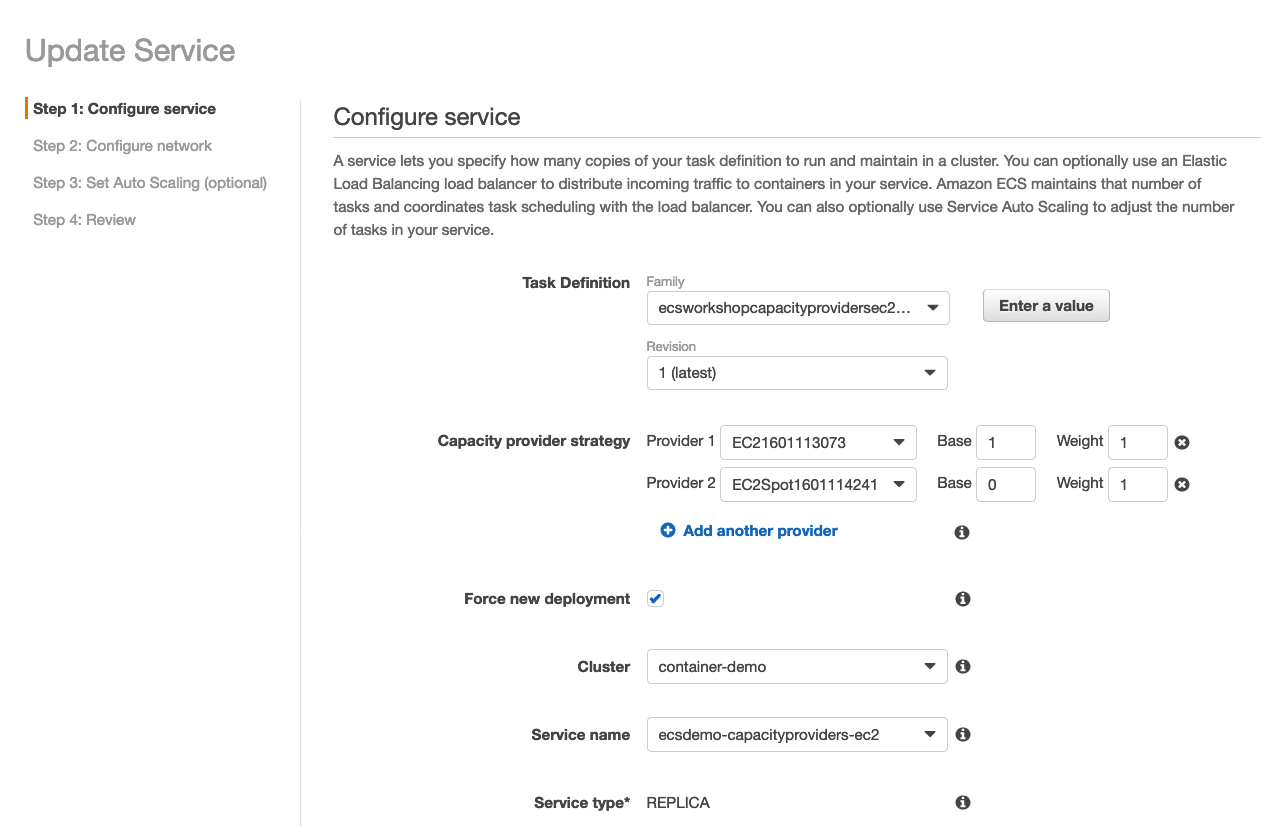
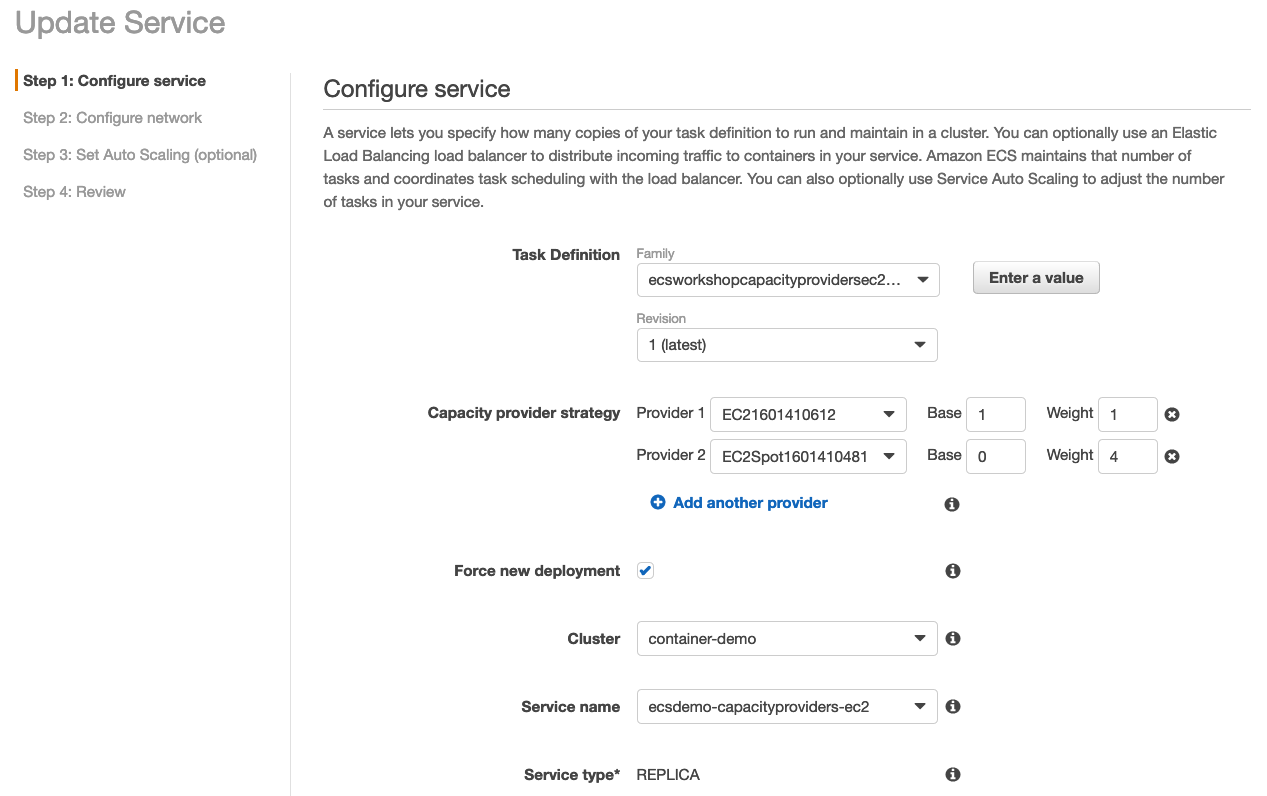
finalize ec2 spot cp module

diff --git a/content/capacity_providers/tabs/ec2_spot.md b/content/capacity_providers/tabs/ec2_spot.md
@@ -6,11 +6,13 @@ hidden: true
 
 ### EC2 Spot Instances 
 
-[Amazon EC2 Spot Instances](https://aws.amazon.com/ec2/spot/) are spare EC2 capacity offered with an up to 90% discount compared to On-Demand pricing. Spot Instances enable you to optimize your costs on the AWS cloud and scale your application’s throughput up to 10X for the same budget. Spot Instances can be interrupted with a two minutes warning when EC2 needs the capacity back. 
+[Amazon EC2 Spot Instances](https://aws.amazon.com/ec2/spot/) are spare EC2 capacity offered with an up to 90% discount compared to On-Demand pricing. Spot Instances enable you to optimize your compute costs on the AWS cloud and scale your application’s throughput up to 10X for the same budget. The only difference between Spot and On-demand instances is that Spot Instances can be interrupted with a two minutes warning when EC2 needs the capacity back. 
 
 Containerized workloads are often stateless and fault tolerant, which makes them a very good fit to run on Spot Instances. The Amazon ECS agent can be configured to automatically catch the Spot Instance interruption notices, so if an instance is going to be interrupted, it is set to `DRAINING`. When a container instance is set to `DRAINING`, Amazon ECS prevents new tasks from being scheduled for placement on the container instance. Service tasks on the container instance that are in the `RUNNING` state are stopped and replaced according to the service's deployment configuration parameters, `minimumHealthyPercent` and `maximumPercent`. For more information, check out the [Container instance draining](https://docs.aws.amazon.com/AmazonECS/latest/developerguide/container-instance-draining.html) and the [using Spot Instances](https://docs.aws.amazon.com/AmazonECS/latest/developerguide/container-instance-spot.html) documentation.
 
-A key best practice to successfully use Spot instances is to be **instance type flexible** so you can acquire capacity from multiple Spot capacity pools for scaling and replacing interrupted Spot instances. A Spot capacity pool is a set of unused EC2 instances with the same instance type (e.g. m5.large), operating system and availability zone. This best practice is very simple to achieve with EC2 Auto Scaling groups, which allow you to [combine multiple instance types and purchase options](https://docs.aws.amazon.com/autoscaling/ec2/userguide/asg-purchase-options.html). By using the `capacity-optimized` *SpotAllocationStrategy* Auto Scaling launches instances from the pools with optimal capacity, reducing the likelihood of interruptions. To learn more about `capacity-optimized` check out [this blog post](https://aws.amazon.com/blogs/aws/capacity-optimized-spot-instance-allocation-in-action-at-mobileye-and-skyscanner/).
+As Spot instances are spare EC2 capacity, Spot instance availability fluctuates with supply and demand trends for EC2 capacity. A key best practice to be able to provision and maintain your target capacity when using Spot instances is to be **instance type flexible**, so you can provision capacity from multiple Spot capacity pools for scaling out and replacing interrupted Spot instances with others from other pools with available spare capacity. A Spot capacity pool is a set of unused EC2 instances with the same instance type (e.g. m5.large), operating system and Availability Zone. 
+
+Instance type flexibility best practice is very simple to achieve with EC2 Auto Scaling groups, which allow you to [combine multiple instance types and purchase options](https://docs.aws.amazon.com/autoscaling/ec2/userguide/asg-purchase-options.html) on a single Auto Scaling group. By using the `capacity-optimized` *SpotAllocationStrategy*, EC2 Auto Scaling launches instances from the pools with optimal capacity for the number of instances that are launching, making use of real-time capacity data. By choosing instances from the optimal capacity pools, the likelihood of interruptions is reduced. To learn more about `capacity-optimized` and how customers are successful using it, check out [this blog post](https://aws.amazon.com/blogs/aws/capacity-optimized-spot-instance-allocation-in-action-at-mobileye-and-skyscanner/).
 
 ### Enable EC2 Spot capacity on the cluster
 
@@ -117,16 +119,17 @@ Now, update the cluster using the cdk.
 cdk deploy --require-approval never
 ```
 
-By adding that section of code, all of the necessary components to add EC2 Spot instances to the cluster will be created. This includes an Auto Scaling Group with mixed instance types, Launch Template, ECS Optimized AMI, etc. Let's break down the important pieces:
+By adding that section of code, all of the necessary components to add EC2 Spot instances to the cluster will be created. This includes an Auto Scaling Group with mixed instance types, Launch Template, ECS Optimized AMI, etc. As the AutoScaling CDK construct doesn't yet support Launch Templates, and hence, mixed instance types, we're defining the infrastructure by using CloudFormation constructs. The work to include Launch Templates support is being tracked [here](https://github.com/aws/aws-cdk/issues/6734). Let's break down the important pieces:
 
 - Notice we are creating a [Launch Template](https://docs.aws.amazon.com/AWSEC2/latest/UserGuide/ec2-launch-templates.html). This is required to combine instance types and purchase options on an Auto Scaling group.
 - On the User Data of the launch template, we're configuring the ECS agent to drain a Spot Container Instance when receiving an interruption notice: `ECS_ENABLE_SPOT_INSTANCE_DRAINING=true`.
 - On the Auto Scaling group, we're defining a Mixed Instances Policy. On instance distribution, we're setting up the Auto Scaling group to launch only EC2 Spot Instances and use the `capacity-optimized` Spot Allocation Strategy. This makes Auto Scaling launch instances from the Spot capacity pool with optimal capacity for the number or instances that are launching. Deploying this way helps you make the most efficient use of spare EC2 capacity and reduce the likelihood of interruptions.
-- On the `overrides` section, we're configuring 10 different instance types that we can use on our ECS cluster. Multipliying this number by the number of Availability Zones in use will give us the number of Spot capacity pools we can launch capacity from ( e.g. if we're across 3 AZs, it means we can get capacity from 30 different Spot capacity pools). This maximizes our ability acquire the required Spot capacity (the more pools the better). 
+- On the `overrides` section, we're configuring 10 different instance types that we can use on our ECS cluster. Multipliying this number by the number of Availability Zones in use will give us the number of Spot capacity pools we can launch capacity from ( e.g. if we're across 3 AZs, it means we can get capacity from 30 different Spot capacity pools). This maximizes our ability provision and maintain the required Spot capacity (the more pools the better). 
+- Note this time we're using larger instance types than with On-Demand (\*.large vs. t3.small). The reason the instances are larger is to be able to select a higher number of instance types to be flexible across (smaller sizes are only available on t* instance types and old generation instances like m3. m4 and m5 instances smallest type is large). It's recommended that you combine instances of the same size when creating an Auto Scaling group for ECS for predictable scaling behavior. 
 
 
 {{% notice note %}}
-On the Auto Scaling group mixed instance policies we included `t2` and `t3` instance types, which  fit perfectly well for our use case. For CPU intensive and/or production use cases, keep in mind t2 and t3 instances are burstable performance instances. T3 instances by default run in `unlimited mode`, meaning if your workload consistently bursts above the instance baseline performance and depletes burst credits, credit surplus charges are incurred. T2 instances run in `standard mode` by default, meaning that once burst credits are depleted, CPU utilization will be gradually lowered to the baseline level. You can learn more about burstable performance instances [here](https://docs.aws.amazon.com/AWSEC2/latest/UserGuide/burstable-performance-instances.html). You can also modify your default settings at account level with the [modify-default-credit-specification](https://docs.aws.amazon.com/cli/latest/reference/ec2/modify-default-credit-specification.html) CLI command. 
+On the Auto Scaling group mixed instance policy we included `t2` and `t3` instance types, which  fit perfectly well our use case. For CPU intensive and/or production use cases, keep in mind t2 and t3 instances are burstable performance instances. T3 instances by default run in `unlimited mode`, meaning if your workload consistently bursts above the instance baseline performance and depletes burst credits, credit surplus charges are incurred. T2 instances run in `standard mode` by default, meaning that once burst credits are depleted, CPU utilization will be gradually lowered to the baseline level. You can learn more about burstable performance instances [here](https://docs.aws.amazon.com/AWSEC2/latest/UserGuide/burstable-performance-instances.html). You can also modify your default settings at account level with the [modify-default-credit-specification](https://docs.aws.amazon.com/cli/latest/reference/ec2/modify-default-credit-specification.html) CLI command. 
 {{% /notice%}}
 
 Once the deployment is complete, let's move back to the capacity provider demo repo and start work on setting up cluster auto scaling.
@@ -162,13 +165,13 @@ aws ecs create-capacity-provider \
     - `managedScaling`: This is where we enable/disable cluster auto scaling. We also set `targetCapacity`, which determines at what point in cluster utilization do we want the auto scaler to take action.
     - `managedTerminationProtection`: Enable this parameter if you want to ensure that prior to an EC2 instance being terminated (for scale-in actions), the auto scaler will only terminate instances that are not running tasks.
 
-Now that we have a new capacity provider created, we need to associate it with the ECS Cluster. As we created an On-Demand Auto Scaling capacity provider on the previous section, we'll add the Spot Auto Scaling capacity provider to the cluster and assign both capacity providers the same weight on the cluster default capacity provider strategy, with a base of 1 initial task scheduled on the On-Demand capacity provider. With this configuration, the first task will be scheduled on the On-Demand capacity provider. Subsequent tasks will be scheduled 50% on the Spot Auto Scaling capacity provider and the other 50% on the On-Demand Auto Scaling capacity provider.  
+Now that we have a new capacity provider created, we need to associate it with the ECS Cluster. As we created an On-Demand Auto Scaling capacity provider on the previous section, we'll add the Spot Auto Scaling capacity provider to the cluster. We will assign a base of 1 to the On-Demand capacity provider, and then a weight of 1 to the On-Demand Auto Scaling capacity provider and a weight of 4 to the Spot Auto Scaling capacity provider. With this configuration, the first task will be scheduled on the On-Demand capacity provider. For subsequent tasks, for each task scheduled on the On-Demand capacity provider, 4 will be scheduled on the Spot Auto Scaling capacity provider.  
 
 ```bash
 aws ecs put-cluster-capacity-providers \
 --cluster container-demo \
 --capacity-providers $capacity_provider_name $spot_capacity_provider_name \
---default-capacity-provider-strategy capacityProvider=$capacity_provider_name,weight=1,base=1 capacityProvider=$spot_capacity_provider_name,weight=1,base=0
+--default-capacity-provider-strategy capacityProvider=$capacity_provider_name,weight=1,base=1 capacityProvider=$spot_capacity_provider_name,weight=4,base=0
 ```
 
 You will get a json response indicating that the cluster update has been applied. 
@@ -216,7 +219,7 @@ On the Amazon ECS console go to the `container-demo` cluster and on the `Service
 
 ![ecsdemo-capacity-providers-ec2-service](/images/ecsdemo-capacityproviders-ec2-service.png)
 
-Now, let's update the service capacity provider strategy to match the cluster default capacity providers strategy. Click on the `Update` button on the top-right corner, and on the configure service, on the `Capacity provider strategy` click `Add another provider`. Then, on the `Provider 2` drop-down menu select the capacity provider we created before `EC2Spot*`. Leave the `Force new deployment` checkbox marked to redeploy the service so the new strategy takes effect. Then, scroll to the very bottom of the screen, click on `Skip to review` and on the new screen click on the `Update Service` button at the very bottom. Then click on `View Service` to go back to the ECS Service console. 
+Now, let's update the service capacity provider strategy to match the cluster default capacity providers strategy. Click on the `Update` button on the top-right corner, and on the configure service, on the `Capacity provider strategy` click `Add another provider`. Then, on the `Provider 2` drop-down menu select the capacity provider we created before `EC2Spot*` and assign it a weight of 4. Leave the `Force new deployment` checkbox marked to redeploy the service so the new strategy takes effect. Then, scroll to the very bottom of the screen, click on `Skip to review` and on the new screen click on the `Update Service` button at the very bottom. Then click on `View Service` to go back to the ECS Service console. 
 
 ![ecsdemo-capacity-providers-ec2-service-update-strategy](/images/update-ecsdemo-capacityproviders-ec2-service-strategy.png)
 
@@ -226,11 +229,11 @@ Wait for a few minutes while the service is re-deployed. You can monitor it on t
 
 ### Scale the service beyond the current capacity available
 
-Now we can scale out again our service. ECS will adhere to the capacity providers strategy we just configured: one base task on the On-Demand Auto Scaling Capacity provider and then 50% of the tasks on the Spot Auto Scaling capacity provider and the other 50% on the On-Demand capacity provider.
+Now we can scale out again our service. When scheduling our tasks, ECS will adhere to the capacity providers strategy we just configured: one base task on the On-Demand Auto Scaling Capacity provider and then every 1 task scheduled on the On-Demand Capacity provider, the subsequent four will be scheduled on the Spot capacity provider. 
 
 Go to the deployment configuration (`~/environment/ecsdemo-capacityproviders/ec2/app.py`), and do the following:
 
-Change the desired_count parameter from `1` to `20`.
+Change the desired_count parameter from `1` to `40`. (This time we're scaling out more tasks because our Spot Auto Scaling group is composed by larger instances than the On-Demand one, so they can run more tasks, and we want to see how Cluster Auto Scaling scales out both Auto Scaling groups).
 
 ```python
         self.load_balanced_service = aws_ecs_patterns.ApplicationLoadBalancedEc2Service(
@@ -240,7 +243,7 @@ Change the desired_count parameter from `1` to `20`.
             cpu=256,
             memory_limit_mib=512,
             #desired_count=1,
-            desired_count=20,
+            desired_count=40,
             public_load_balancer=True,
             task_image_options=self.task_image,
         )
@@ -254,15 +257,11 @@ cdk deploy --require-approval never
 
 Let's walk through what we did and what is happening.
 
-- We are modifying our task count for the service to go from one, to twenty. This will stretch us beyond the capacity that presently exists for the cluster on both capacity providers.
+- We are modifying our task count for the service to go from one, to forty. This will stretch us beyond the capacity that presently exists for the cluster on both capacity providers.
 - The capacity providers used by the service will recognize that the target capacity of each of them is above 80%. This will trigger a autoscaling events to scale capacity of the underlying auto scaling groups back to 80% or under.
 - The EC2 Spot Auto Scaling group will scale out selecting the instance types on each AZ optimal based on the spare capacity availability of each pool at launch time. 
 
-If you navigate to the ECS console you will notice there're 20 tasks attempting to run:
-
-![cp-spot-20tasks](/images/cp_spot_20_tasks.png)
-
-As we're using multiple capacity providers, for simplicity, this time we will monitor the tasks using the AWS CLI. To check the state of the tasks run the following command:
+If you navigate to the ECS console you will notice there're 40 tasks attempting to run. As we're using multiple capacity providers, for simplicity, this time we will monitor the tasks using the AWS CLI. To check the state of the tasks run the following command:
 
 ```bash 
 aws ecs describe-tasks --cluster container-demo \
@@ -277,40 +276,93 @@ aws ecs describe-tasks --cluster container-demo \
                         --output table
 ```
 
-Wait for a few minutes while Cluster Auto Scaler scales out the Auto Scaling groups and all the pending tasks are scheduled and RUNNING. The output will be similar to the following:
+Wait for a few minutes while Cluster Auto Scaler scales out the Auto Scaling groups and all the pending tasks are scheduled and `RUNNING`. The output will be similar to the following:
 
 ```
----------------------------------------------------------------------------------------------------------------------------------------------------------------
-|                                                                        DescribeTasks                                                                        |
-+------------+--------------------+----------------+-------------------------------------------------------------------------------------------+--------------+
-|     AZ     | CapacityProvider   | DesiredStatus  |                                            Id                                             | LastStatus   |
-+------------+--------------------+----------------+-------------------------------------------------------------------------------------------+--------------+
-|  eu-west-1a|  EC21601113073     |  RUNNING       |  arn:aws:ecs:eu-west-1:012345678910:task/container-demo/14b6752dc2aa4ca48b182a73b2816404  |  RUNNING     |
-|  eu-west-1c|  EC21601113073     |  RUNNING       |  arn:aws:ecs:eu-west-1:012345678910:task/container-demo/28617be76d01429691402104d2aeafea  |  RUNNING     |
-|  eu-west-1b|  EC21601113073     |  RUNNING       |  arn:aws:ecs:eu-west-1:012345678910:task/container-demo/6582bdd94e844d1fa8c96917d377eb7f  |  RUNNING     |
-|  eu-west-1b|  EC21601113073     |  RUNNING       |  arn:aws:ecs:eu-west-1:012345678910:task/container-demo/836e419e903d4c579ef738b276758984  |  RUNNING     |
-|  eu-west-1b|  EC21601113073     |  RUNNING       |  arn:aws:ecs:eu-west-1:012345678910:task/container-demo/995b56491ba348a1ae960aba39a0aa17  |  RUNNING     |
-|  eu-west-1c|  EC21601113073     |  RUNNING       |  arn:aws:ecs:eu-west-1:012345678910:task/container-demo/9c44823359634a61b6d7b10d965b404c  |  RUNNING     |
-|  eu-west-1c|  EC21601113073     |  RUNNING       |  arn:aws:ecs:eu-west-1:012345678910:task/container-demo/b4feaa043c614eb4806e017278bfd144  |  RUNNING     |
-|  eu-west-1a|  EC21601113073     |  RUNNING       |  arn:aws:ecs:eu-west-1:012345678910:task/container-demo/ba5935b59dea40afb74712bec6199bb1  |  RUNNING     |
-|  eu-west-1b|  EC21601113073     |  RUNNING       |  arn:aws:ecs:eu-west-1:012345678910:task/container-demo/c8dbc59de0c34a1ebf949f33e930979f  |  RUNNING     |
-|  eu-west-1b|  EC21601113073     |  RUNNING       |  arn:aws:ecs:eu-west-1:012345678910:task/container-demo/d6955f0489f74a1d8b325f02cad70ae9  |  RUNNING     |
-|  eu-west-1a|  EC21601113073     |  RUNNING       |  arn:aws:ecs:eu-west-1:012345678910:task/container-demo/d7353eef77934372b7944ef30f0b4c26  |  RUNNING     |
-|  eu-west-1a|  EC2Spot1601114241 |  RUNNING       |  arn:aws:ecs:eu-west-1:012345678910:task/container-demo/12d64f8862a24adb9fc3bb0088a3a3e0  |  RUNNING     |
-|  eu-west-1a|  EC2Spot1601114241 |  RUNNING       |  arn:aws:ecs:eu-west-1:012345678910:task/container-demo/16f74b3b019e49edb0489c614daa4137  |  RUNNING     |
-|  eu-west-1a|  EC2Spot1601114241 |  RUNNING       |  arn:aws:ecs:eu-west-1:012345678910:task/container-demo/30cfd1d72cc94929ae0ca1410741ae38  |  RUNNING     |
-|  eu-west-1c|  EC2Spot1601114241 |  RUNNING       |  arn:aws:ecs:eu-west-1:012345678910:task/container-demo/392abfd8c60743dc8fc2914a443f049a  |  RUNNING     |
-|  eu-west-1a|  EC2Spot1601114241 |  RUNNING       |  arn:aws:ecs:eu-west-1:012345678910:task/container-demo/4455122b17944d28b47ac5550660260f  |  RUNNING     |
-|  eu-west-1a|  EC2Spot1601114241 |  RUNNING       |  arn:aws:ecs:eu-west-1:012345678910:task/container-demo/5451e0df1d2a4506ae0a0c99ede9ede0  |  RUNNING     |
-|  eu-west-1a|  EC2Spot1601114241 |  RUNNING       |  arn:aws:ecs:eu-west-1:012345678910:task/container-demo/bd465054570f4b7b97a319e552706ac3  |  RUNNING     |
-|  eu-west-1a|  EC2Spot1601114241 |  RUNNING       |  arn:aws:ecs:eu-west-1:012345678910:task/container-demo/c9accad1e2aa414892863d76fef0b234  |  RUNNING     |
-|  eu-west-1a|  EC2Spot1601114241 |  RUNNING       |  arn:aws:ecs:eu-west-1:012345678910:task/container-demo/dc801f7d5f6c4b5e96ea856b2b980d3d  |  RUNNING     |
-+------------+--------------------+----------------+-------------------------------------------------------------------------------------------+--------------+
+----------------------------------------------------------------------------------------------------------------------------------------------------
+|                                                                   DescribeTasks                                                                  |
++------------+--------------------+----------------+--------------------------------------------------------------------------------+--------------+
+|     AZ     | CapacityProvider   | DesiredStatus  |                                      Id                                        | LastStatus   |
++------------+--------------------+----------------+--------------------------------------------------------------------------------+--------------+
+|  us-west-2a|  EC21601410612     |  RUNNING       |  arn:aws:ecs:us-west-2:012345678910:task/0fafc3da-0871-40a7-bbc8-ae27d9222971  |  RUNNING     |
+|  us-west-2c|  EC21601410612     |  RUNNING       |  arn:aws:ecs:us-west-2:012345678910:task/41b65ccf-d372-428a-b7a5-864423e0ccb6  |  RUNNING     |
+|  us-west-2c|  EC21601410612     |  RUNNING       |  arn:aws:ecs:us-west-2:012345678910:task/48f57b24-21ca-4357-93d9-ac7bc80376df  |  RUNNING     |
+|  us-west-2a|  EC21601410612     |  RUNNING       |  arn:aws:ecs:us-west-2:012345678910:task/52fc0df1-76bc-4695-b97e-5c41defd1d87  |  RUNNING     |
+|  us-west-2b|  EC21601410612     |  RUNNING       |  arn:aws:ecs:us-west-2:012345678910:task/7ed35946-5e02-4f15-a30c-6b8b730a14dc  |  RUNNING     |
+|  us-west-2b|  EC21601410612     |  RUNNING       |  arn:aws:ecs:us-west-2:012345678910:task/8a75a425-2a88-408a-95e5-72becb6b653d  |  RUNNING     |
+|  us-west-2b|  EC21601410612     |  RUNNING       |  arn:aws:ecs:us-west-2:012345678910:task/b5fe2be2-b3ca-404e-b622-202cb36f1e71  |  RUNNING     |
+|  us-west-2a|  EC21601410612     |  RUNNING       |  arn:aws:ecs:us-west-2:012345678910:task/d1847007-b2b9-45dc-8bec-266d3625b4e6  |  RUNNING     |
+|  us-west-2c|  EC21601410612     |  RUNNING       |  arn:aws:ecs:us-west-2:012345678910:task/fb3ac6c2-fdf9-498c-a38d-87482f0e373a  |  RUNNING     |
+|  us-west-2c|  EC2Spot1601410481 |  RUNNING       |  arn:aws:ecs:us-west-2:012345678910:task/06a7b208-b26b-435f-8474-d9c7c7335b0f  |  RUNNING     |
+|  us-west-2c|  EC2Spot1601410481 |  RUNNING       |  arn:aws:ecs:us-west-2:012345678910:task/0ea3d7d9-9028-491c-a610-d2337cd71576  |  RUNNING     |
+|  us-west-2b|  EC2Spot1601410481 |  RUNNING       |  arn:aws:ecs:us-west-2:012345678910:task/15b901ed-4bab-4079-89ff-21fb12603704  |  RUNNING     |
+|  us-west-2a|  EC2Spot1601410481 |  RUNNING       |  arn:aws:ecs:us-west-2:012345678910:task/197cec5f-6729-4a91-9c4a-d4b82f2d8e11  |  RUNNING     |
+|  us-west-2b|  EC2Spot1601410481 |  RUNNING       |  arn:aws:ecs:us-west-2:012345678910:task/20d2ae15-3306-468d-a323-bd083457e257  |  RUNNING     |
+|  us-west-2a|  EC2Spot1601410481 |  RUNNING       |  arn:aws:ecs:us-west-2:012345678910:task/2e5276a0-3a53-4d30-9ffd-9d732bc21444  |  RUNNING     |
+|  us-west-2c|  EC2Spot1601410481 |  RUNNING       |  arn:aws:ecs:us-west-2:012345678910:task/34fcea68-340d-488a-8485-cb85f37b2421  |  RUNNING     |
+|  us-west-2a|  EC2Spot1601410481 |  RUNNING       |  arn:aws:ecs:us-west-2:012345678910:task/3f8b5cd4-7cb6-4e36-949d-5e6b55e23026  |  RUNNING     |
+|  us-west-2c|  EC2Spot1601410481 |  RUNNING       |  arn:aws:ecs:us-west-2:012345678910:task/40bb1a36-cf1b-413a-9900-edf77ed37666  |  RUNNING     |
+|  us-west-2b|  EC2Spot1601410481 |  RUNNING       |  arn:aws:ecs:us-west-2:012345678910:task/4940999b-7d43-4776-bc93-c611f3e2f50d  |  RUNNING     |
+|  us-west-2c|  EC2Spot1601410481 |  RUNNING       |  arn:aws:ecs:us-west-2:012345678910:task/51c7a1c2-ee99-482e-9d02-0b36fcf7c91d  |  RUNNING     |
+|  us-west-2c|  EC2Spot1601410481 |  RUNNING       |  arn:aws:ecs:us-west-2:012345678910:task/57afe571-ccb2-43de-aeae-ed0b0e533dfa  |  RUNNING     |
+|  us-west-2a|  EC2Spot1601410481 |  RUNNING       |  arn:aws:ecs:us-west-2:012345678910:task/61e8ae7e-0bc8-4ed9-ad79-6cee8d2f4561  |  RUNNING     |
+|  us-west-2b|  EC2Spot1601410481 |  RUNNING       |  arn:aws:ecs:us-west-2:012345678910:task/6beb9d0f-b9a9-4a6d-9b5d-ca696eb6d222  |  RUNNING     |
+|  us-west-2a|  EC2Spot1601410481 |  RUNNING       |  arn:aws:ecs:us-west-2:012345678910:task/7a0abdba-109b-451d-8802-976989867f99  |  RUNNING     |
+|  us-west-2c|  EC2Spot1601410481 |  RUNNING       |  arn:aws:ecs:us-west-2:012345678910:task/7c2decc8-960e-444c-8112-94878d4bc842  |  RUNNING     |
+|  us-west-2c|  EC2Spot1601410481 |  RUNNING       |  arn:aws:ecs:us-west-2:012345678910:task/7c7bf079-9feb-4a94-be46-5c7f4c9fabdb  |  RUNNING     |
+|  us-west-2b|  EC2Spot1601410481 |  RUNNING       |  arn:aws:ecs:us-west-2:012345678910:task/8e086320-9898-4437-9760-ac49ca28c0ba  |  RUNNING     |
+|  us-west-2c|  EC2Spot1601410481 |  RUNNING       |  arn:aws:ecs:us-west-2:012345678910:task/8eeb244a-2176-4c24-a35a-90dc738fe716  |  RUNNING     |
+|  us-west-2a|  EC2Spot1601410481 |  RUNNING       |  arn:aws:ecs:us-west-2:012345678910:task/993f29a9-3f54-425f-9801-9260eef99a6e  |  RUNNING     |
+|  us-west-2a|  EC2Spot1601410481 |  RUNNING       |  arn:aws:ecs:us-west-2:012345678910:task/ba45d37f-a456-4d55-8904-2917b6249426  |  RUNNING     |
+|  us-west-2c|  EC2Spot1601410481 |  RUNNING       |  arn:aws:ecs:us-west-2:012345678910:task/c594dbde-bf60-421f-8a11-31e886305349  |  RUNNING     |
+|  us-west-2c|  EC2Spot1601410481 |  RUNNING       |  arn:aws:ecs:us-west-2:012345678910:task/c92df92f-f2f2-44f5-a3ad-c1dc2a95e133  |  RUNNING     |
+|  us-west-2b|  EC2Spot1601410481 |  RUNNING       |  arn:aws:ecs:us-west-2:012345678910:task/ca5f8402-95ab-4b12-a2e9-79f682e9ea73  |  RUNNING     |
+|  us-west-2c|  EC2Spot1601410481 |  RUNNING       |  arn:aws:ecs:us-west-2:012345678910:task/cbffe95e-d0ee-4c30-9445-97cd74717e73  |  RUNNING     |
+|  us-west-2c|  EC2Spot1601410481 |  RUNNING       |  arn:aws:ecs:us-west-2:012345678910:task/d3522c75-bb8a-415d-80c4-8812dece82ad  |  RUNNING     |
+|  us-west-2c|  EC2Spot1601410481 |  RUNNING       |  arn:aws:ecs:us-west-2:012345678910:task/dea0db9c-e85e-4510-900f-18a93210c7f0  |  RUNNING     |
+|  us-west-2b|  EC2Spot1601410481 |  RUNNING       |  arn:aws:ecs:us-west-2:012345678910:task/e68e9b9e-e5ff-49b7-8896-beccc85a5601  |  RUNNING     |
+|  us-west-2a|  EC2Spot1601410481 |  RUNNING       |  arn:aws:ecs:us-west-2:012345678910:task/e7644caf-ae8d-4644-a6b9-3d845fe6fdab  |  RUNNING     |
+|  us-west-2c|  EC2Spot1601410481 |  RUNNING       |  arn:aws:ecs:us-west-2:012345678910:task/ebd9a40d-0138-4c72-b6b6-92e19ee63721  |  RUNNING     |
+|  us-west-2b|  EC2Spot1601410481 |  RUNNING       |  arn:aws:ecs:us-west-2:012345678910:task/fc3f7b8d-7777-41b1-8399-6aef81be546e  |  RUNNING     |
++------------+--------------------+----------------+--------------------------------------------------------------------------------+--------------+
 ```
 
-Notice that, as configured on the strategy, out of the `20` tasks, 1 base task has been scheduled on the On-Demand Auto Scaling capacity provider, 10 more tasks have been scheduled on the same provider and the other 9 have been scheduled on the Spot Auto Scaling capacity provider. 
+Notice that, as configured on the strategy, out of the `40` tasks, `1` base task has been scheduled on the On-Demand Auto Scaling capacity provider, `8` more tasks have been scheduled on the same provider and the other `31` have been scheduled on the Spot Auto Scaling capacity provider. 
 
-Go to the [EC2 Auto Scaling console](https://console.aws.amazon.com/ec2autoscaling/home) and open the `ecsworkshop-base-ECSEC2SpotCapacity-*`. On the `Instance management` tab, check out which instance types Auto Scaling group has launched. The instance types depend on what the optimal Spot pools are at the time your instances are launched. 
+Check out how your container instances for each capacity provider:
+```
+aws ecs describe-container-instances --cluster container-demo  \
+                --container-instances $(aws ecs list-container-instances \
+                                        --cluster container-demo \
+                                        --query 'containerInstanceArns[]' \
+                                        --output text) \
+                --query 'containerInstances[].{InstanceId: ec2InstanceId, 
+                                                CapacityProvider: capacityProviderName, 
+                                                RunningTasks: runningTasksCount}' \
+                --output table
+
+```
+
+You will see an output simialr to the following:
+```
+--------------------------------------------------------------
+|                 DescribeContainerInstances                 |
++-------------------+-----------------------+----------------+
+| CapacityProvider  |      InstanceId       | RunningTasks   |
++-------------------+-----------------------+----------------+
+|  EC2Spot1601410481|  i-0b3fff658490b7e82  |  8             |
+|  EC21601410612    |  i-0cf703bce8be6fb8b  |  3             |
+|  EC2Spot1601410481|  i-0e3facf7904e07090  |  8             |
+|  EC21601410612    |  i-0a736772a3cd8a0d6  |  0             |
+|  EC2Spot1601410481|  i-0b7c8dc3b712306b8  |  0             |
+|  EC21601410612    |  i-09faef7cee2b0817e  |  3             |
+|  EC2Spot1601410481|  i-011148f52770cec66  |  7             |
+|  EC2Spot1601410481|  i-0381ead0179bf59cb  |  8             |
+|  EC21601410612    |  i-0f20394abc80fc763  |  3             |
++-------------------+-----------------------+----------------+
+```
+
+Now, go to the [EC2 Auto Scaling console](https://console.aws.amazon.com/ec2autoscaling/home) and open the `ecsworkshop-base-ECSEC2SpotCapacity-*`. On the `Instance management` tab, check out which instance types Auto Scaling group has launched. The instance types depend on what the optimal Spot pools are at the time your instances are launched. 
 
 ![SpotASGInstances](/images/ec2-spot-cp-asg.png)
 
@@ -351,7 +403,7 @@ Now that we've seen the capacity provider strategy in action, let's drop the cou
 
 Go back into the deployment configuration (`~/environment/ecsdemo-capacityproviders/ec2/app.py`), and do the following:
 
-Change the desired_count parameter from `20` to `1`.
+Change the desired_count parameter from `40` to `1`.
 
 ```python
         self.load_balanced_service = aws_ecs_patterns.ApplicationLoadBalancedEc2Service(
@@ -361,7 +413,7 @@ Change the desired_count parameter from `20` to `1`.
             cpu=256,
             memory_limit_mib=512,
             desired_count=1,
-            #desired_count=20,
+            #desired_count=40,
             public_load_balancer=True,
             task_image_options=self.task_image,
         )
@@ -375,6 +427,14 @@ cdk deploy --require-approval never
 
 That's it. Now, over the course of the next few minutes,  cluster auto scaling will recognize that we are well above capacity requirements on both capacity providers, and will scale the EC2 instances back in.
 
+#### Review
+
+What we accomplished in this section of the workshop is the following:
+
+- Created an additional capacity provider for EC2 backed tasks composed by Spot instances.
+- Updated the capacity provider strategy to spread or ECS Service tasks across both the previous section On-Demand EC2 Capacity Provider and the new EC2 Spot Capacity Provider to optimize our costs.
+- Scaled out and in the service and see the new strategy in action as well as how Cluster Auto Scaling scaled both Auto Scaling groups accordingly. 
+- Learn how the ECS agent manages Spot instance interruptions. 
 
 #### Cleanup
 

diff --git a/content/capacity_providers/tabs/fargate.md b/content/capacity_providers/tabs/fargate.md
@@ -139,6 +139,42 @@ The command line output should look something like this:
 
 Whether you or on the browser or using the command line, go ahead and refresh a few times. You should see that as you are routed to different containers via the load balancer on each new request. The containers responding will be running on either Fargate or Fargate Spot capacity providers.
 
+From a cluster administrator point of view, you can also easily check how your tasks are spread across capacity providers with the following CLI command:
+
+```bash
+aws ecs describe-tasks --cluster container-demo \
+                       --tasks \
+                         $(aws ecs list-tasks --cluster container-demo --query 'taskArns[]' --output text) \
+                       --query 'sort_by(tasks,&capacityProviderName)[].{ 
+                                          Id: taskArn, 
+                                          AZ: availabilityZone, 
+                                          CapacityProvider: capacityProviderName, 
+                                          LastStatus: lastStatus, 
+                                          DesiredStatus: desiredStatus}' \
+                        --output table
+```
+
+The output will be similar to the following:
+
+```
+---------------------------------------------------------------------------------------------------------------------------------------------------
+|                                                                  DescribeTasks                                                                  |
++------------+-------------------+----------------+--------------------------------------------------------------------------------+--------------+
+|     AZ     | CapacityProvider  | DesiredStatus  |                                      Id                                        | LastStatus   |
++------------+-------------------+----------------+--------------------------------------------------------------------------------+--------------+
+|  us-west-2a|  FARGATE          |  RUNNING       |  arn:aws:ecs:us-west-2:012345678910:task/00fd41c9-6b7b-41a3-8b37-fb2404b58cb8  |  RUNNING     |
+|  us-west-2b|  FARGATE          |  RUNNING       |  arn:aws:ecs:us-west-2:012345678910:task/56e5e043-be66-4d18-ac52-7156c2eadd6c  |  RUNNING     |
+|  us-west-2c|  FARGATE          |  RUNNING       |  arn:aws:ecs:us-west-2:012345678910:task/9dad79c0-fd66-4785-a11e-a6b4c586157b  |  RUNNING     |
+|  us-west-2b|  FARGATE_SPOT     |  RUNNING       |  arn:aws:ecs:us-west-2:012345678910:task/36a51210-a869-4933-b028-c8ee9b3243dd  |  RUNNING     |
+|  us-west-2c|  FARGATE_SPOT     |  RUNNING       |  arn:aws:ecs:us-west-2:012345678910:task/3a864ba5-fe60-42f8-83b2-4de8838a99ac  |  RUNNING     |
+|  us-west-2a|  FARGATE_SPOT     |  RUNNING       |  arn:aws:ecs:us-west-2:012345678910:task/665ecef8-c0a5-45db-8fcf-f06c02cfe16b  |  RUNNING     |
+|  us-west-2c|  FARGATE_SPOT     |  RUNNING       |  arn:aws:ecs:us-west-2:012345678910:task/69361c15-f76d-4765-b1c9-236f1124c28f  |  RUNNING     |
+|  us-west-2a|  FARGATE_SPOT     |  RUNNING       |  arn:aws:ecs:us-west-2:012345678910:task/dd0aa6dc-3a5e-4692-9e10-f5d7a169c4d6  |  RUNNING     |
+|  us-west-2c|  FARGATE_SPOT     |  RUNNING       |  arn:aws:ecs:us-west-2:012345678910:task/e60a98b4-adca-4f38-98ab-bb44c4890455  |  RUNNING     |
+|  us-west-2a|  FARGATE_SPOT     |  RUNNING       |  arn:aws:ecs:us-west-2:012345678910:task/f3e4db9d-effb-41c6-bf9e-527a5cc58603  |  RUNNING     |
++------------+-------------------+----------------+--------------------------------------------------------------------------------+--------------+
+```
+
 {{% notice tip%}}
 To learn all about Fargate Spot check out [this blog post](https://aws.amazon.com/blogs/compute/deep-dive-into-fargate-spot-to-run-your-ecs-tasks-for-up-to-70-less/)
 {{% /notice%}}

diff --git a/content/capacity_providers/tabs/ec2.md b/content/capacity_providers/tabs/ec2.md
@@ -44,7 +44,7 @@ cd ~/environment/ecsdemo-capacityproviders/ec2
 
 ### Enable Cluster Auto Scaling
 
-As we did in the previous section, we are going to once again create a capacity provider. This time; however, it will be a capacity provider to enable managed cluster auto scaling. Let's do that now.
+As we did in the previous section, we are going to once again create a capacity provider. This time; however, it will be a capacity provider backed by EC2 and we'll enable managed cluster auto scaling. Let's do that now.
 
 ```bash
 # Get the required cluster values needed when creating the capacity provider
@@ -211,7 +211,7 @@ What we accomplished in this section of the workshop is the following:
 In the next section, we're going to:
 
 - Add EC2 Spot instances to our cluster.
-- Create a capacity provider for the Spot instances, enable Cluster Auto Scaling on the new capacity provider.
+- Create a capacity provider for the Spot instances, then enable Cluster Auto Scaling on the new capacity provider.
 - Add the new capacity provider to the default cluster capacity provider strategy.
-- Deploy the service across both On-Demand and Spot capacity providers to spread our tasks and optimize costs overprovisioning our service using Spot Instances.
-- Scale the service out and in to see how the strategy spreads the tasks across capacity providers.
+- Deploy the service across both On-Demand and Spot capacity providers with the new strategy to spread our tasks across them. With this strategy, we optimize costs while scaling out our service using Spot Instances.
+- Scale the service out and in to see how the strategy spreads the tasks across capacity providers and cluster autoscaling takes care of scaling the underlying EC2 instances.

diff --git a/content/capacity_providers/_index.md b/content/capacity_providers/_index.md
@@ -9,12 +9,14 @@ pre: '<i class="fa fa-film" aria-hidden="true"></i> '
 
 {{< youtube V0qyjSvGkJU >}}
 
-In this chapter, we will gain an understanding of how Capacity Providers can help us in managing autoscaling for EC2 backed tasks, as well as ways to implement cost savings when running Fargate tasks.
-We will implement two capacity provider strategies in our cluster: 
+In this chapter, we will gain an understanding of how Capacity Providers can help us in managing autoscaling for EC2 backed tasks, as well as ways to implement cost savings leveraging spare compute capacity in AWS running tasks on Fargate Spot and EC2 Spot instances.
+We will implement three capacity provider strategies in our cluster: 
 
 - For a Fargate backed ECS service, we will implement a strategy to deploy that service as a mix between Fargate and Fargate Spot.
 
-- For an EC2 backed ECS service, we will implement Cluster Auto Scaling by increasing the task count of a service beyond the capacity available. This will require the backend EC2 infrastucture to scale to meet the demand, which the ECS cluster autoscaler will handle.
+- For an EC2 backed ECS service, we will implement Cluster Auto Scaling by increasing the task count of a service beyond the capacity available. This will require the backend EC2 infrastructure to scale to meet the demand, which the ECS Cluster Autoscaling will handle.
+
+- Finally, we will add a second EC2 capacity provider backed by EC2 Spot instances and scale our EC2 backed service across both On-Demand and Spot EC2 Instances. This will allow us to scale out our service cost effectively while Cluster Autoscaling handles scaling of the underlying infrastructure. 
 
 
 Let's get started!

diff --git a/content/capacity_providers/software.md b/content/capacity_providers/software.md
@@ -26,6 +26,8 @@ aws-cdk.aws_ecs==$AWS_CDK_VERSION \
 aws-cdk.aws_servicediscovery==$AWS_CDK_VERSION \
 aws_cdk.aws_iam==$AWS_CDK_VERSION \
 aws_cdk.aws_efs==$AWS_CDK_VERSION \
+aws_cdk.aws_autoscaling==$AWS_CDK_VERSION \
+aws_cdk.aws_ssm==$AWS_CDK_VERSION \
 awscli \
 awslogs
 
